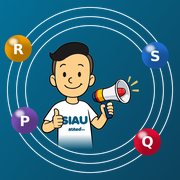
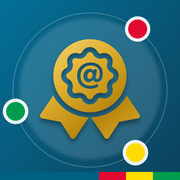
v9.1: ícono de la app y de la pestaña con la medalla dorada del SIAU sobre fondo MiRed
Claude-Session: https://claude.ai/code/session_01UZqNQKJ9HuUnEShqkJ44x7

diff --git a/apps-script/Index.html b/apps-script/Index.html
@@ -4,7 +4,7 @@
 <meta charset="utf-8">
 <meta name="viewport" content="width=device-width, initial-scale=1, viewport-fit=cover">
 <meta name="color-scheme" content="light dark">
[2 lines of base64/hex data omitted]
 <link rel="apple-touch-icon" href="apple-touch-icon.png">
 <title>Gestión de PQRS · MiRed IPS</title>
 <script>

diff --git a/entrega/Index.html b/entrega/Index.html
@@ -4,7 +4,7 @@
 <meta charset="utf-8">
 <meta name="viewport" content="width=device-width, initial-scale=1, viewport-fit=cover">
 <meta name="color-scheme" content="light dark">
[2 lines of base64/hex data omitted]
 <link rel="apple-touch-icon" href="apple-touch-icon.png">
 <title>Gestión de PQRS · MiRed IPS</title>
 <script>

diff --git a/entrega/portal_index.html b/entrega/portal_index.html
@@ -4,7 +4,7 @@
 <meta charset="utf-8">
 <meta name="viewport" content="width=device-width, initial-scale=1, viewport-fit=cover">
 <meta name="color-scheme" content="light dark">
[2 lines of base64/hex data omitted]
 <link rel="apple-touch-icon" href="apple-touch-icon.png">
 <title>Gestión de PQRS · MiRed IPS</title>
 <script>

diff --git a/frontend/1_head_estilos.html b/frontend/1_head_estilos.html
@@ -4,7 +4,7 @@
 <meta charset="utf-8">
 <meta name="viewport" content="width=device-width, initial-scale=1, viewport-fit=cover">
 <meta name="color-scheme" content="light dark">
[2 lines of base64/hex data omitted]
 <link rel="apple-touch-icon" href="apple-touch-icon.png">
 <title>Gestión de PQRS · MiRed IPS</title>
 <script>

diff --git a/portal/index.html b/portal/index.html
@@ -4,7 +4,7 @@
 <meta charset="utf-8">
 <meta name="viewport" content="width=device-width, initial-scale=1, viewport-fit=cover">
 <meta name="color-scheme" content="light dark">
[2 lines of base64/hex data omitted]
 <link rel="apple-touch-icon" href="apple-touch-icon.png">
 <title>Gestión de PQRS · MiRed IPS</title>
 <script>

diff --git a/portal/sw.js b/portal/sw.js
@@ -1,5 +1,5 @@
 /* Generado por tools/construir_portal.mjs · no editar a mano */
-var VERSION = "pqrs-772bfd57c4";
+var VERSION = "pqrs-c14ea54e9a";
 var CASCARA = ["./", "index.html", "config.js", "manifest.webmanifest", "icon-192.png", "icon-512.png", "apple-touch-icon.png"];
 self.addEventListener("install", function (e) { e.waitUntil(caches.open(VERSION).then(function (c) { return c.addAll(CASCARA); }).then(function () { return self.skipWaiting(); })); });
 self.addEventListener("activate", function (e) {

diff --git a/tools/imagenes_pwa.py b/tools/imagenes_pwa.py
@@ -1,4 +1,4 @@
-"""Imágenes de la app (íconos, favicon, imagen para compartir) con la mascota del SIAU y las PQRS como planetas que la orbitan.
+"""Imágenes de la app (íconos, favicon, imagen para compartir): medalla dorada del SIAU sobre fondo azul MiRed con la franja de la marca.
 Uso: python3 tools/imagenes_pwa.py   (requiere Pillow)
 Genera en assets/pwa/: icon-192.png, icon-512.png, icon-maskable-512.png, apple-touch-icon.png (180), favicon.png (64), og.png (1200x630), imagen_app_1024.png"""
 import math, pathlib
@@ -52,12 +52,42 @@ def sistema(lienzo, cx, cy, u, mascota_h):
         px = cx + math.cos(math.radians(ang)) * rad * u; py = cy - math.sin(math.radians(ang)) * rad * u
         lienzo.alpha_composite(planeta(pd, color, letra), (round(px - pd / 2), round(py - pd / 2)))
 
+MEDALLA = Image.open(R / "assets" / "siau" / "Medalla_SIAU_dorada.png").convert("RGBA")
+MEDALLA = MEDALLA.crop(MEDALLA.getbbox())
+
 def icono(n, escala=1.0, redondo=False):
+    """Ícono de la app: medalla dorada del SIAU sobre fondo azul MiRed, con halo claro y la franja roja · amarilla · verde de la marca."""
     im = fondo(n, n)
-    sistema(im, n / 2, n / 2, n * escala, n * escala * 0.60)
-    if escala < 1:   # el resto del cuadrado ya es fondo: zona segura de los íconos «maskable»
-        pass
+    d = ImageDraw.Draw(im, "RGBA")
+    c = n / 2
+    # halo claro detrás de la medalla
+    halo = Image.new("RGBA", (n, n), (0, 0, 0, 0)); hd = ImageDraw.Draw(halo)
+    r = n * 0.40 * escala
+    hd.ellipse((c - r, c - r * 1.02, c + r, c + r * 0.98), fill=(255, 255, 255, 34))
+    im.alpha_composite(halo.filter(ImageFilter.GaussianBlur(n * 0.012)))
+    r2 = n * 0.43 * escala
+    anillo = Image.new("RGBA", (n, n), (0, 0, 0, 0)); ImageDraw.Draw(anillo).ellipse((c - r2, c - r2, c + r2, c + r2), outline=(255, 255, 255, 60), width=max(1, int(n / 200)))
+    im.alpha_composite(anillo)
+    # los tres puntos de la marca MiRed (rojo, verde y amarillo) orbitando sobre el anillo
+    for col, ang in [(XROJO, 52), (XVERDE, 196), (XAMA, 306)]:
+        px = c + math.cos(math.radians(ang)) * r2; py = c - math.sin(math.radians(ang)) * r2; pr = n * 0.052 * escala
+        punto = Image.new("RGBA", (n, n), (0, 0, 0, 0)); pd = ImageDraw.Draw(punto)
+        pd.ellipse((px - pr * 1.35, py - pr * 1.35, px + pr * 1.35, py + pr * 1.35), fill=(255, 255, 255, 235))
+        pd.ellipse((px - pr, py - pr, px + pr, py + pr), fill=col)
+        im.alpha_composite(punto)
+    # medalla (sin deformar)
+    alto = n * 0.56 * escala
+    m = MEDALLA.resize((round(MEDALLA.width * alto / MEDALLA.height), round(alto)), Image.LANCZOS)
+    sombra = Image.new("RGBA", (n, n), (0, 0, 0, 0)); sombra.paste((0, 0, 0, 90), (round(c - m.width / 2), round(c - m.height / 2 + n * 0.015)), m)
+    im.alpha_composite(sombra.filter(ImageFilter.GaussianBlur(n * 0.012)))
+    im.alpha_composite(m, (round(c - m.width / 2), round(c - m.height / 2 - n * 0.005)))
+    # franja de la marca al pie (en el ícono «maskable» queda dentro de la zona segura)
+    h = max(3, round(n * 0.045 * escala)); y0 = round(c + n * 0.5 * escala - h) if escala < 1 else n - h
+    for i, (col, x0, x1) in enumerate([("#006081", 0, .55), (XROJO, .55, .70), (XAMA, .70, .85), (XVERDE, .85, 1)]):
+        d.rectangle((round(n * x0), y0, round(n * x1), y0 + h), fill=col)
     return im
+
+XROJO, XAMA, XVERDE = "#E20A31", "#FEDC00", "#009C4D"
 
 def guardar(im, nombre, tam=None):
     if tam: im = im.resize((tam, tam), Image.LANCZOS)
@@ -66,12 +96,19 @@ def guardar(im, nombre, tam=None):
 grande = icono(1024, 1.0)
 guardar(grande, "imagen_app_1024.png")
 guardar(grande, "icon-512.png", 512); guardar(grande, "icon-192.png", 192)
-guardar(grande, "apple-touch-icon.png", 180); guardar(grande, "favicon.png", 64)
+guardar(grande, "apple-touch-icon.png", 180)
+# favicon: sin puntos ni anillo (a 16–32 px no se distinguirían): medalla grande sobre azul con la franja de la marca
+fav = fondo(256, 256); m = MEDALLA.resize((round(MEDALLA.width * 190 / MEDALLA.height), 190), Image.LANCZOS)
+fav.alpha_composite(m, ((256 - m.width) // 2, 24)); fd = ImageDraw.Draw(fav)
+for col, x0, x1 in [("#006081", 0, .55), (XROJO, .55, .70), (XAMA, .70, .85), (XVERDE, .85, 1)]: fd.rectangle((round(256 * x0), 238, round(256 * x1), 256), fill=col)
+fav.resize((64, 64), Image.LANCZOS).save(OUT / "favicon.png", optimize=True)
 guardar(icono(1024, 0.80), "icon-maskable-512.png", 512)
 
 # Imagen para compartir el enlace (WhatsApp, correo): 1200 × 630
 og = fondo(1200, 630); d = ImageDraw.Draw(og, "RGBA")
-sistema(og, 935, 315, 520, 310)
+ic = icono(1024, 1.0).resize((430, 430), Image.LANCZOS)
+mask = Image.new("L", (430, 430), 0); ImageDraw.Draw(mask).rounded_rectangle((0, 0, 429, 429), 86, fill=255)
+og.paste(ic, (690, 100), mask)
 fg = ImageFont.truetype(FUENTE, 56); fp = ImageFont.truetype(FUENTE.replace("-Bold", ""), 25); fs = ImageFont.truetype(FUENTE, 22)
 d.text((70, 190), "Sistema de PQRS", font=fg, fill="white")
 d.text((70, 268), "Peticiones · Quejas · Reclamos · Sugerencias", font=fp, fill=(255, 255, 255, 215))

diff --git a/CLAUDE.md b/CLAUDE.md
@@ -2,7 +2,7 @@
 
 Aplicación web en **Google Apps Script** (también publicable como portal estático que llama a `doPost`) que opera sobre un **Google Sheets** (el "consolidado") de la cuenta del SIAU (Oficina de Atención al Usuario). Unifica en un solo lugar las PQRS (peticiones, quejas, reclamos, sugerencias, felicitaciones, denuncias y tutelas) que llegan por formulario QR, correo institucional (EPS y entes de control) y atención presencial en cada sede. La plataforma **radica**, calcula términos legales y semáforo, **direcciona** al área responsable, registra la respuesta del área, **responde** al usuario y deja **trazabilidad** de todo.
 
-Versión actual: **9.0** (9.0: Excel profesional con panel, gráficos, formato condicional y tablas con estilo de marca · 8.9: pulido visual: avisos compactos, indicadores en cuadrícula pareja, lectura más cómoda y movimiento fino · 8.8: WhatsApp (accesos y avisos a técnicos) y Excel por plantilla · 8.7: temas claro/oscuro/monocromático/cálido, pantalla de inicio y animaciones de carga, ajustes para iPhone, Android y tabletas, fondo sin franja blanca y aviso de «sin conexión» · 8.6: aviso 5 días antes del vencimiento, encuesta de satisfacción NPS en la respuesta final y portal instalable como app (PWA) · 8.5: motivo específico (derecho vulnerado) en lugar de tipología, ficha del formulario para técnicos, clave predeterminada con correo de bienvenida y mascota en el ingreso · 8.4: seguridad: política escrita en `docs/SEGURIDAD.md`, contraseñas de 10 caracteres, auditoría, sesión de 12 h, protección contra inyección de fórmulas y CSP en el portal · 8.2: radicación rápida, Excel y respaldo en Drive · 8.3: EPS y entes sin correos automáticos con análisis detallado, revisión cada 3 min, push con ntfy, correos e ingreso rediseñados, logos nuevos del SIAU). Historia, requisitos y decisiones: `docs/CONTEXTO.md`. Mapa del código: `docs/ARQUITECTURA.md`. Instalación y despliegue: `docs/DESPLIEGUE.md`. Pendientes y riesgos: `docs/PENDIENTES.md` (léelo antes de cambiar algo grande).
+Versión actual: **9.1** (9.1: ícono de la app y de la pestaña con la medalla dorada del SIAU sobre fondo MiRed · 9.0: Excel profesional con panel, gráficos, formato condicional y tablas con estilo de marca · 8.9: pulido visual: avisos compactos, indicadores en cuadrícula pareja, lectura más cómoda y movimiento fino · 8.8: WhatsApp (accesos y avisos a técnicos) y Excel por plantilla · 8.7: temas claro/oscuro/monocromático/cálido, pantalla de inicio y animaciones de carga, ajustes para iPhone, Android y tabletas, fondo sin franja blanca y aviso de «sin conexión» · 8.6: aviso 5 días antes del vencimiento, encuesta de satisfacción NPS en la respuesta final y portal instalable como app (PWA) · 8.5: motivo específico (derecho vulnerado) en lugar de tipología, ficha del formulario para técnicos, clave predeterminada con correo de bienvenida y mascota en el ingreso · 8.4: seguridad: política escrita en `docs/SEGURIDAD.md`, contraseñas de 10 caracteres, auditoría, sesión de 12 h, protección contra inyección de fórmulas y CSP en el portal · 8.2: radicación rápida, Excel y respaldo en Drive · 8.3: EPS y entes sin correos automáticos con análisis detallado, revisión cada 3 min, push con ntfy, correos e ingreso rediseñados, logos nuevos del SIAU). Historia, requisitos y decisiones: `docs/CONTEXTO.md`. Mapa del código: `docs/ARQUITECTURA.md`. Instalación y despliegue: `docs/DESPLIEGUE.md`. Pendientes y riesgos: `docs/PENDIENTES.md` (léelo antes de cambiar algo grande).
 
 ## Con quién trabajas
 
